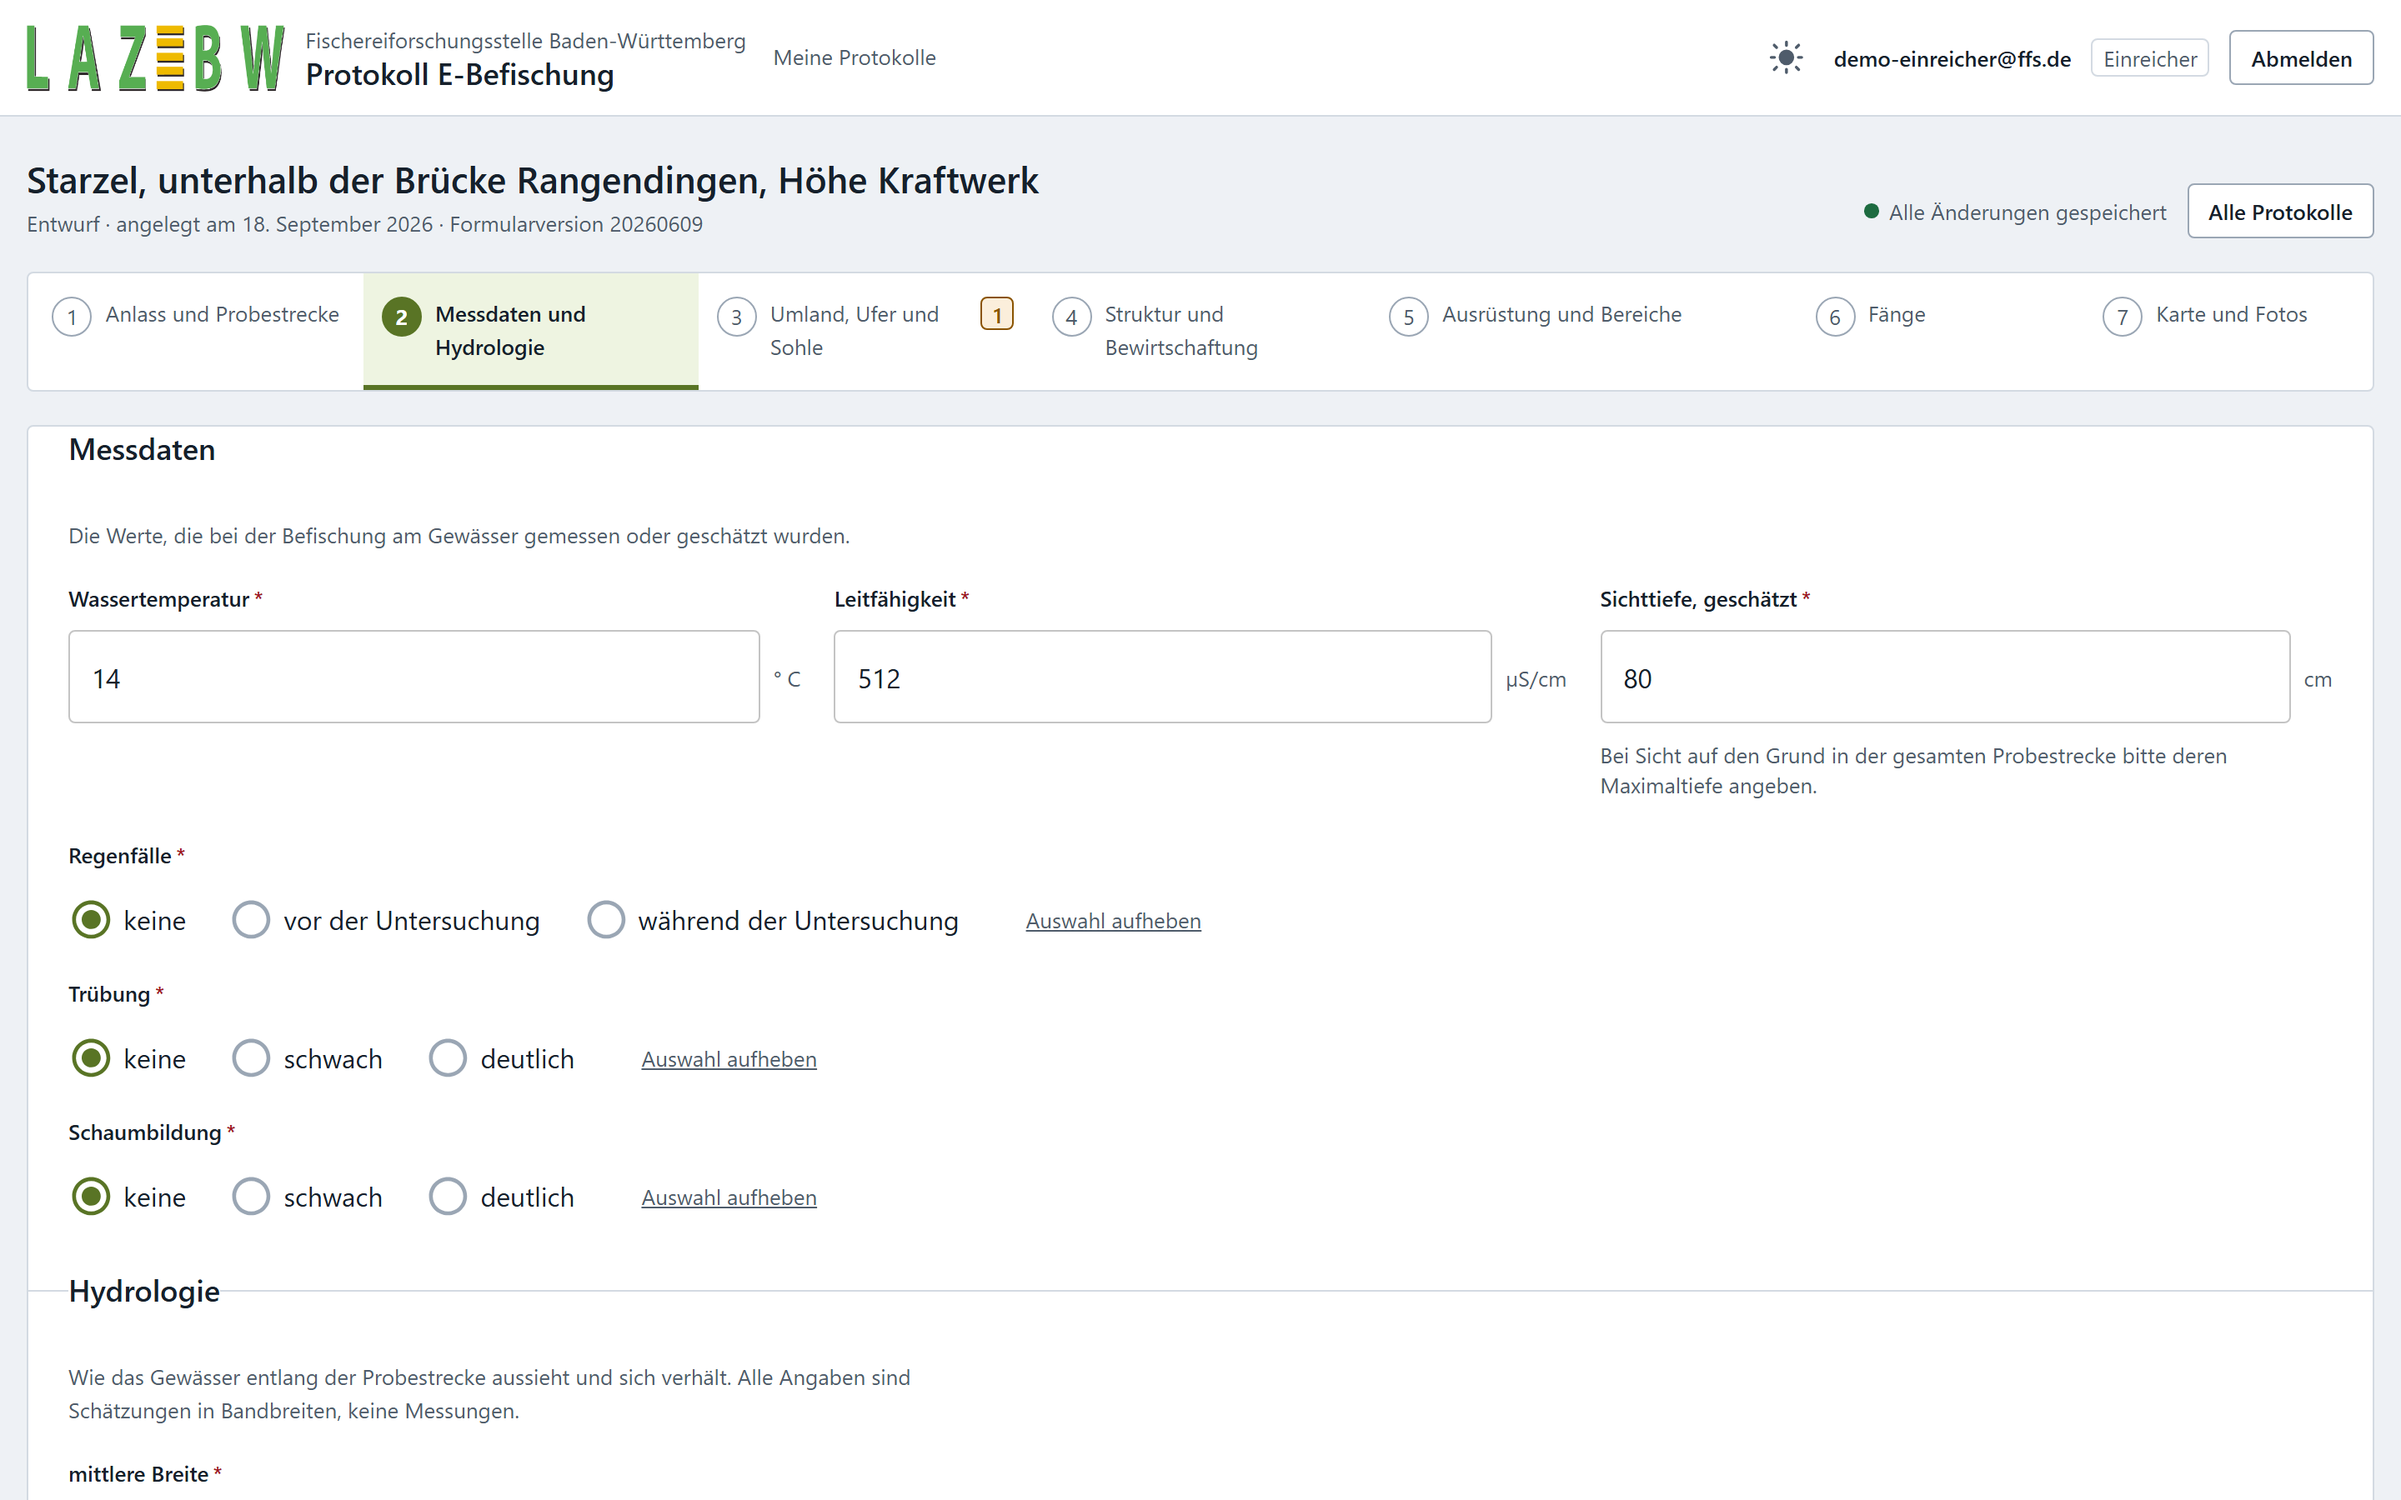
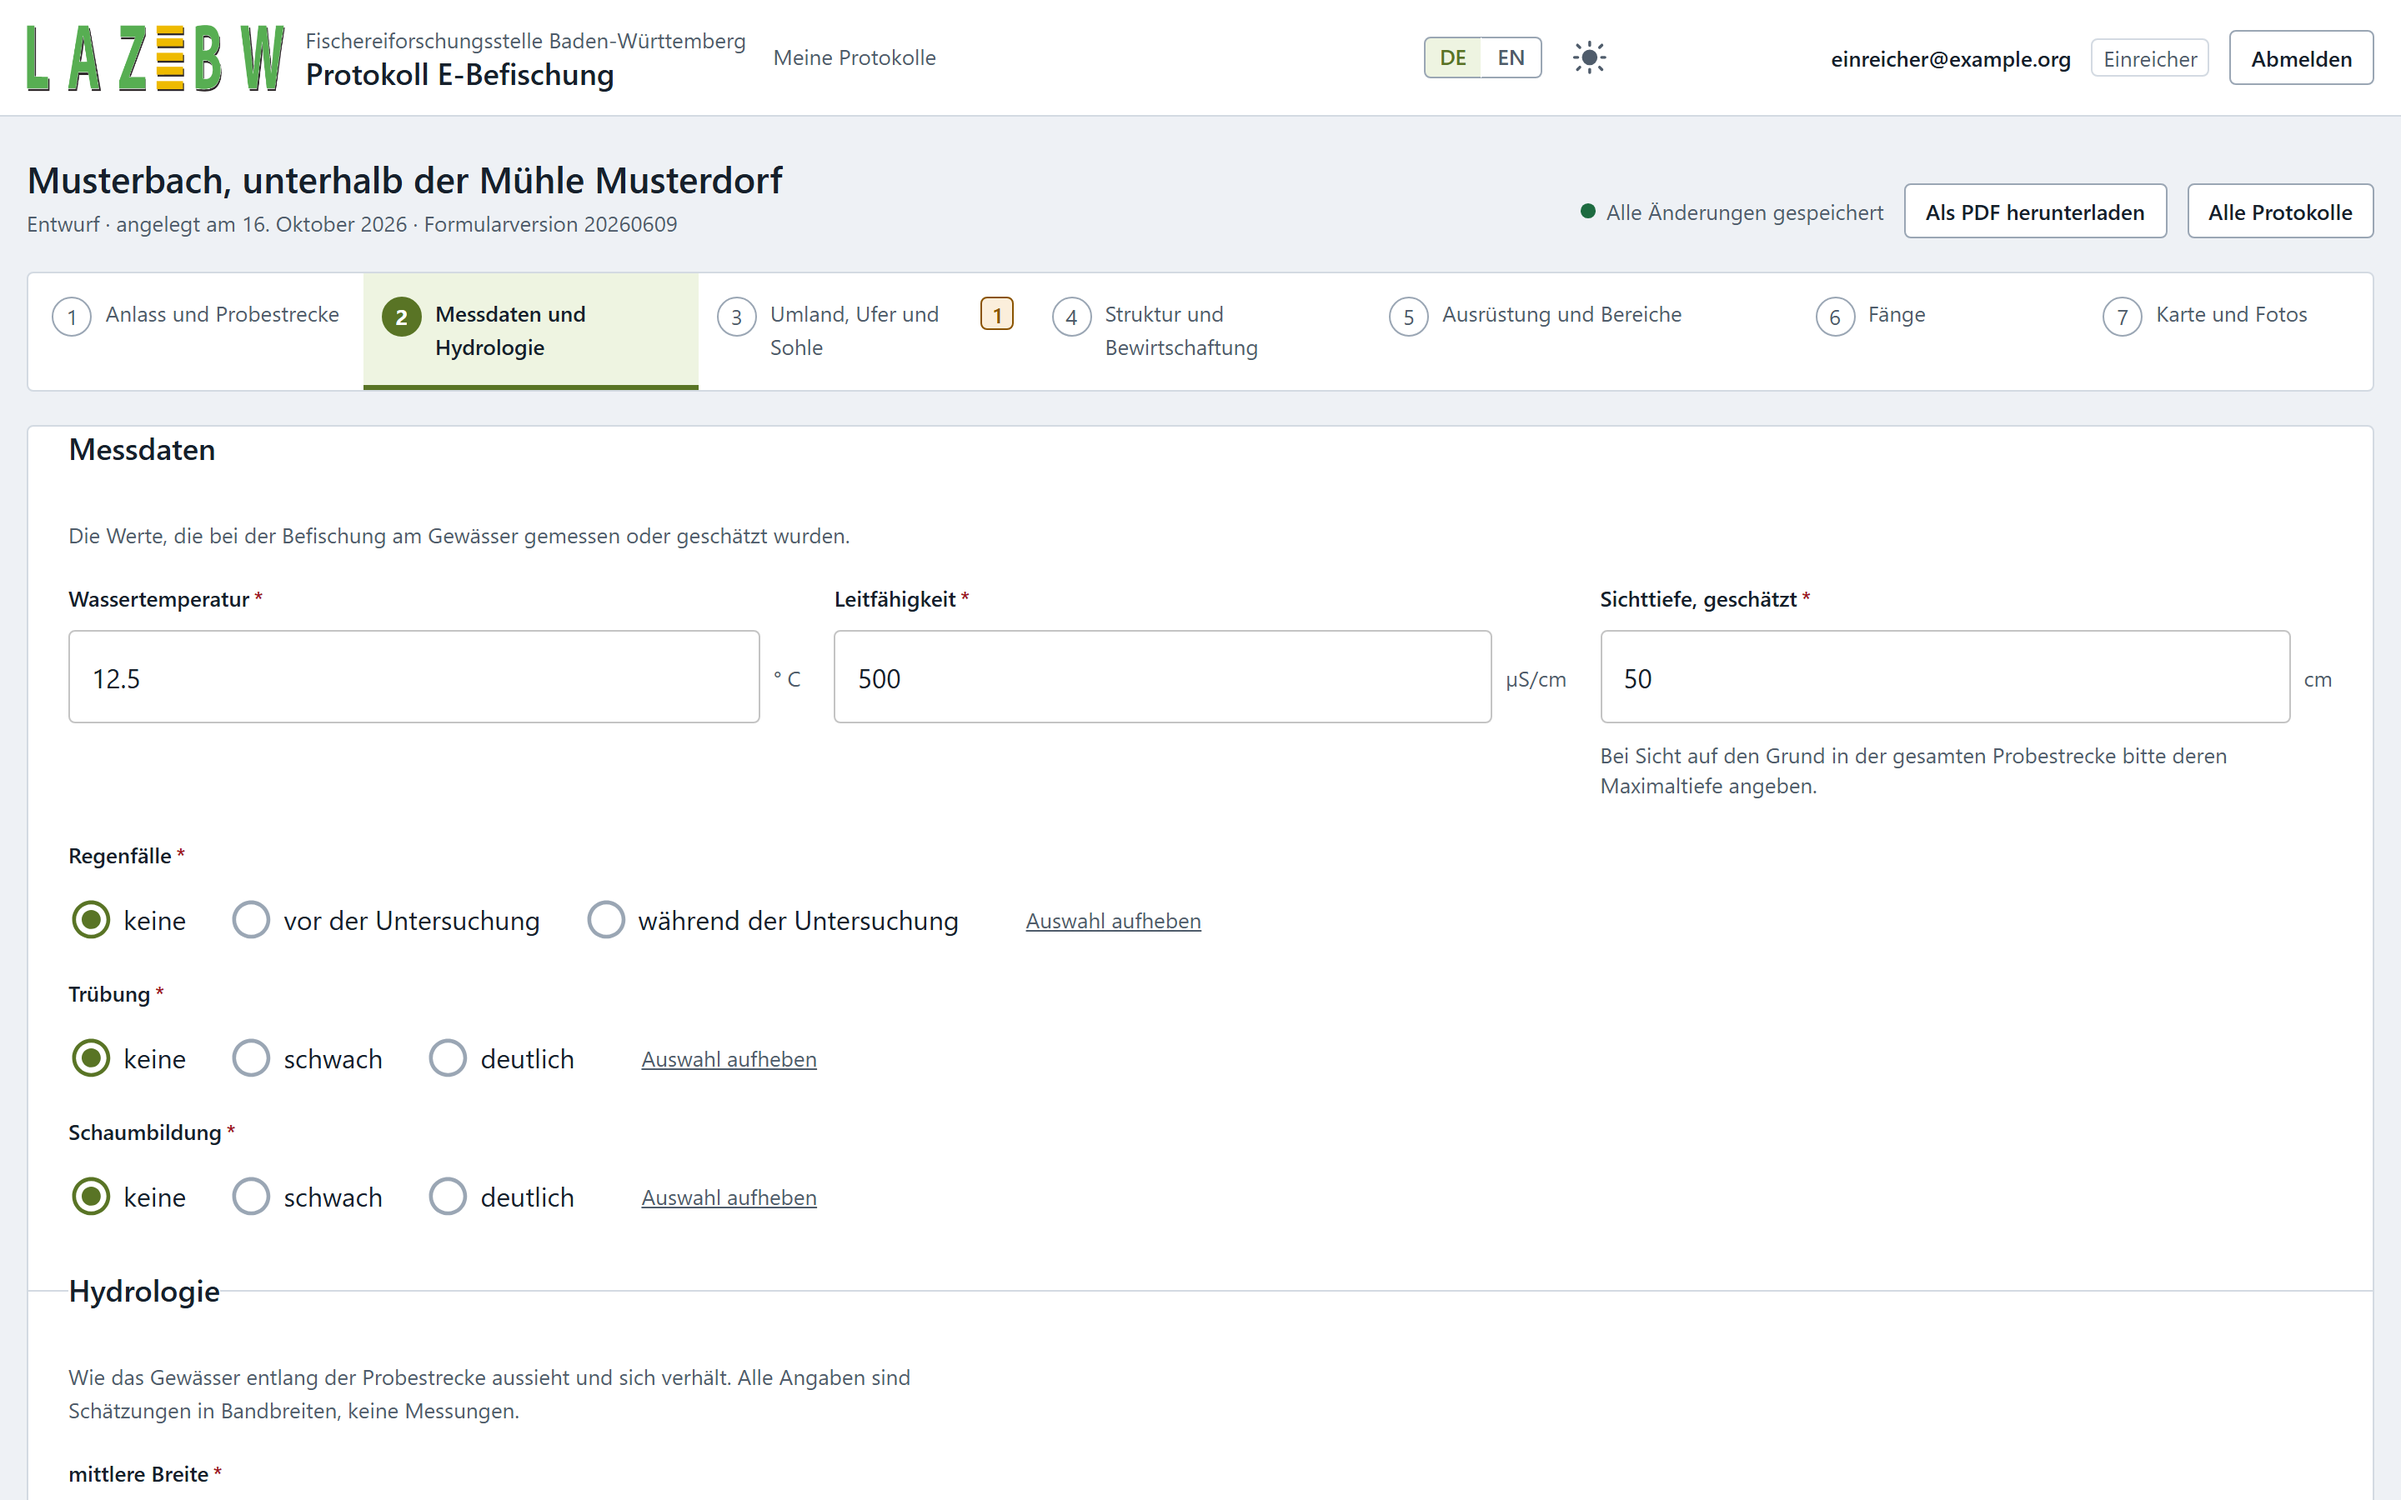
docs: Bildschirmfotos nur mit erfundenen Beispieldaten
Die bisherigen Aufnahmen stammten aus der Entwicklungsdatenbank und
zeigten echte Gewaesser und Orte (Starzel, Rangendingen, Hechingen,
Wolfegger Ach), zwei echte Monitoringstrecken-Nummern, Adressen auf den
echten Domains ffs.de und test.de sowie rund 35 Entwicklungskonten.

Alle sechzehn Bilder neu aufgenommen, gegen eine leere Datenbank mit
ausschliesslich erfundenen Daten: Konten auf example.org,
Mustermann-Namen und -Adressen, erfundene Gewaesser und Orte, Anlass
ohne Monitoringnummer, und neu ausgedachte Zahlen statt der Werte aus
dem Testbeispiel, das einer echten Strecke nachgebildet ist.
docs/screenshots/README.md beschreibt, was erfunden ist und was das
Formular selbst vorgibt.

diff --git a/docs/screenshots/README.md b/docs/screenshots/README.md
@@ -7,22 +7,36 @@ and a real PostgreSQL database. They are not mockups, and they are not the proto
 `prototypes/`. Coding standards on this project ask for browser evidence over reading the code and
 assuming, and the same rule applies to what the README claims the app looks like.
 
-**The survey data in them is invented.** The water, the location, the Bearbeiter, the equipment
-and the fish counts were written for these screenshots. No real person's name, address, telephone
-number or email address appears in any of them, and no real survey does either. The Prüfliste
-screenshot is filtered to one Anlass deliberately, so that early development records do not appear
-in it.
+**Everything in them is invented.** They were taken against a separate, empty database holding
+only sample data written for them, so no development record and no real account appears.
 
-The protocol shown is a fictional WRRL survey of the Starzel at Rangendingen. The
-Monitoringstrecken-Nr. `4005221003` is a real entry from the extracted option list, chosen because
-its label matches the invented location; nothing else about the record is real.
+- **Accounts** all use `example.org`, a domain reserved for documentation.
+- **People** are the usual German placeholders: Erika Mustermann, Max Mustermann, Jana Beispiel,
+  at Musterstraße 1, 12345 Musterstadt, telephone 0123 456789.
+- **Waters and places** are made up: Musterbach, Beispielbach, Mustergraben, Musterweiher,
+  Musterdorf, Beispielhausen.
+- **No monitoring number appears.** The protocols use the Anlass "allgemeine Bestandserhebung",
+  which does not ask for one; every entry in that list is a real FFS monitoring site.
+- **Every number is made up:** fish counts, percentages, measurements, lengths and equipment
+  settings. None is taken from a real survey or from the test fixtures, which are modelled on
+  one.
+
+Some things in them are real, but they are not data:
+
+- **Fixed values from the form itself:** the four Regierungspräsidien, the species names and
+  the occasion names.
+- **The Rhein and the Donau** at the end of each Vorfluter chain. The form refuses a chain that
+  ends anywhere else.
+- **The coordinates** are round invented numbers. They still have to fall inside
+  Baden-Württemberg for the form to accept them, and no shot shows them.
 
 ## Regenerating them
 
-There is no committed script. They were captured by hand from a running stack, at 1440 by 900 with
-a device pixel ratio of 2, in both the light and the dark theme. To redo them, start the stack and
-the dev server as the main README describes, create a submitter account and a reviewer account,
-fill in a protocol, and capture the same twelve views.
+There is no committed script. They were captured with Playwright from a running stack, at 1440 by
+900 with a device pixel ratio of 2, in both the light and the dark theme. To redo them, give the
+stack a fresh empty database, create the sample accounts and protocols described above, and
+capture the same sixteen views. Use a fresh database rather than the development one, so no
+development account or record ends up in a picture.
 
 Leave one percentage block deliberately adding up to 120 and attempt to submit before capturing
 section 3 and section 7. That refusal is what puts the problem badge on the step bar, and both

diff --git a/README.md b/README.md
@@ -151,8 +151,9 @@ is not recoverable afterwards.
 An account is never deleted, only locked: deleting one would take the owner of every protocol
 it filed with it, and those records have to stay readable.
 
-> The screenshots are of the real application driven through a browser, not mockups. The survey
-> data in them is invented. See [docs/screenshots/](docs/screenshots/).
+> The screenshots are of the real application driven through a browser, not mockups. Every
+> account, person, water, place and count in them is invented sample data. See
+> [docs/screenshots/](docs/screenshots/).
 
 ## Start here
 
